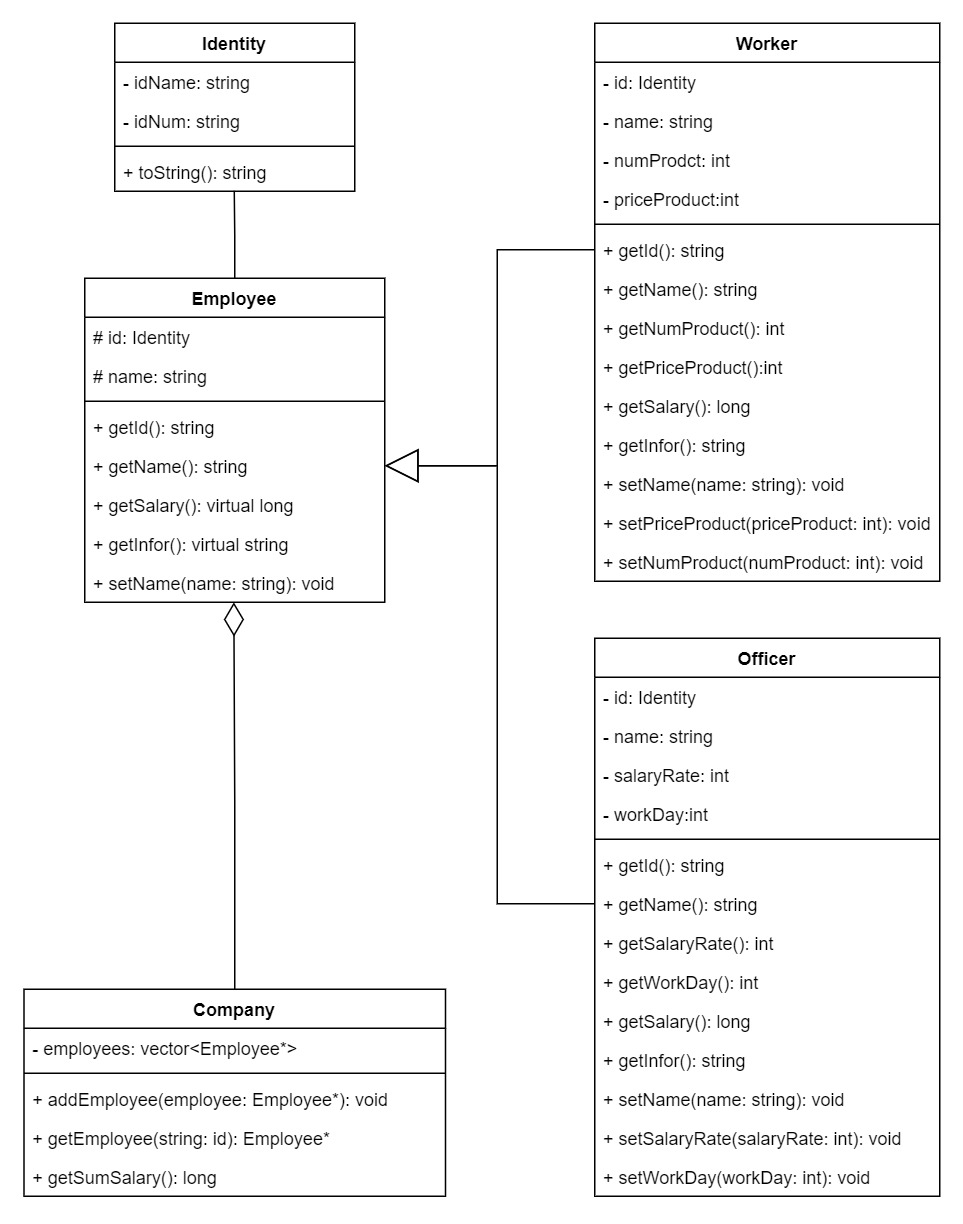
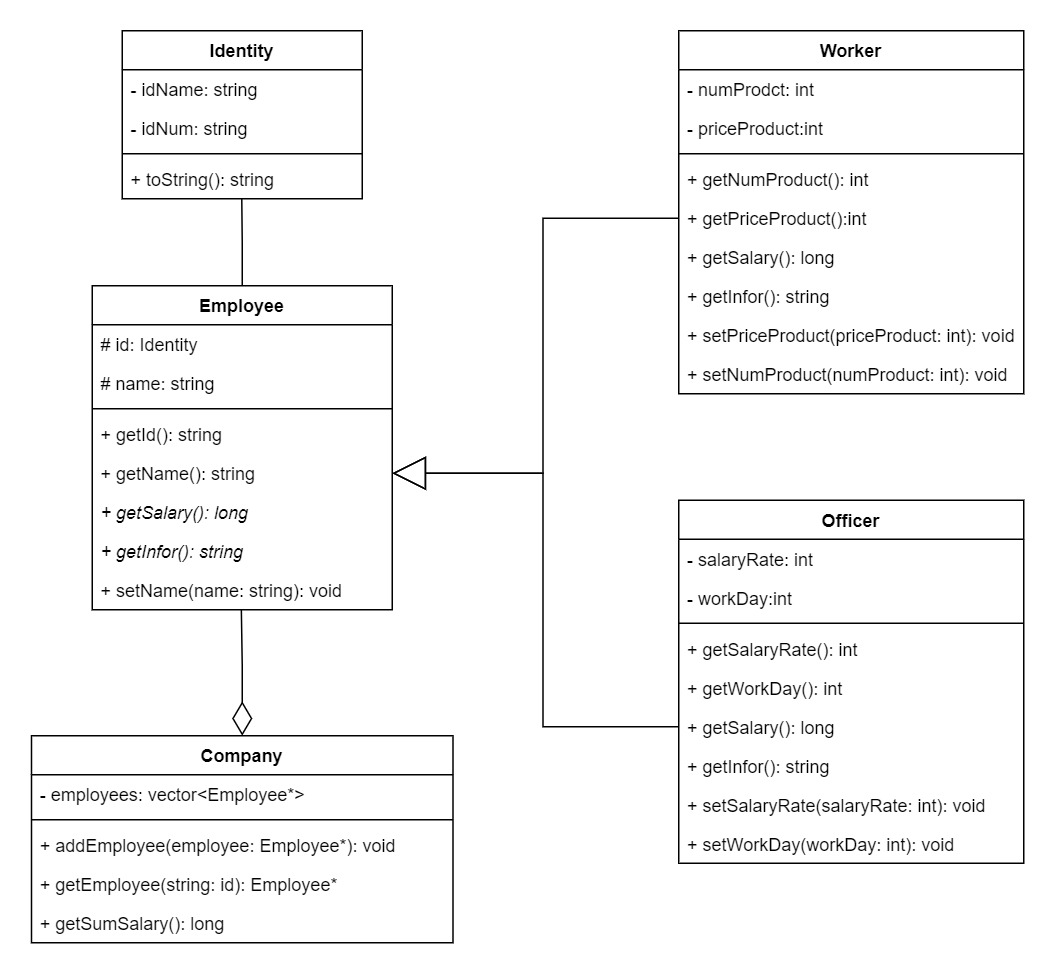
Add files via upload

diff --git a/practice/Bai1_Tuan3/main.cpp b/practice/Bai1_Tuan3/main.cpp
@@ -53,17 +53,17 @@ void editWorkerInfor(Employee* worker) {
 	case 1:
 		cout << "Enter new Name: "; cin.ignore(); getline(cin, name);
 		worker->setName(name);
-		cout << worker->getId() << " | Name has been changed to " << name << endl;
+		cout << worker->getId() << " name has been changed to " << name << endl;
 		break;
 	case 2:
 		cout << "Enter new Number of products: "; cin >> numProduct;
 		((Worker*)worker)->setNumProduct(numProduct);
-		cout << worker->getId() << " | Number of products has been changed to " << numProduct << endl;
+		cout << worker->getId() << " number of products has been changed to " << numProduct << endl;
 		break;
 	case 3:
 		cout << "Enter new Price per product: "; cin >> priceProduct;
 		((Worker*)worker)->setPriceProduct(priceProduct);
-		cout << worker->getId() << " | Price per product has been changed to " << priceProduct << endl;
+		cout << worker->getId() << " price per product has been changed to " << priceProduct << endl;
 		break;
 	default:
 		cout << "Invalid input. ";
@@ -84,17 +84,17 @@ void editOfficerInfor(Employee* officer) {
 	case 1:
 		cout << "Enter new name: "; cin.ignore(); getline(cin, name);
 		officer->setName(name);
-		cout << officer->getId() << " | Name has been changed to " << name << endl;
+		cout << officer->getId() << " name has been changed to " << name << endl;
 		break;
 	case 2:
 		cout << "Enter new Salary rate: "; cin >> salaryRate;
 		((Officer*)officer)->setSalaryRate(salaryRate);
-		cout << officer->getId() << " | Salary rate has been changed to " << salaryRate << endl;
+		cout << officer->getId() << " salary rate has been changed to " << salaryRate << endl;
 		break;
 	case 3:
 		cout << "Enter new Working day: "; cin >> workDay;
 		((Officer*)officer)->setWorkDay(workDay);
-		cout << officer->getId() << " | Working day has been changed to " << workDay << endl;
+		cout << officer->getId() << " working day has been changed to " << workDay << endl;
 		break;
 	default:
 		cout << "Invalid input. ";

diff --git a/practice/Bai1_Tuan3/Worker.cpp b/practice/Bai1_Tuan3/Worker.cpp
@@ -31,9 +31,7 @@ long Worker::getSalary() {
 }
 
 string Worker::getInfor() {
-	string information = "";
-	information += "ID: " + this->id.toString() + '\n';
-	information += "Name: " + this->name + '\n';
+	string information = Employee::getInfor();
 	information += "Number of products: " + to_string(this->numProduct) + '\n';
 	information += "Price per product: " + to_string(this->priceProduct) + '\n';
 	information += "Salary: " + to_string(getSalary()) + '\n';

diff --git a/practice/Bai1_Tuan3/Officer.cpp b/practice/Bai1_Tuan3/Officer.cpp
@@ -31,9 +31,7 @@ long Officer::getSalary() {
 }
 
 string Officer::getInfor() {
-	string information = "";
-	information += "ID: " + this->id.toString() + '\n';
-	information += "Name: " + this->name + '\n';
+	string information = Employee::getInfor();
 	information += "Salary Rate: " + to_string(this->salaryRate) + '\n';
 	information += "Working Day: " + to_string(this->workDay) + '\n';
 	information += "Salary: " + to_string(getSalary()) + '\n';

diff --git a/practice/Bai1_Tuan3/Employee.cpp b/practice/Bai1_Tuan3/Employee.cpp
@@ -2,6 +2,8 @@
 
 Employee::Employee() {}
 
+Employee::~Employee() {}
+
 Employee::Employee(string name) {
 	this->name = name;
 }
@@ -16,4 +18,11 @@ string Employee::getName() {
 
 void Employee::setName(string name) {
 	this->name = name;
+}
+
+string Employee::getInfor() {
+	string information = "";
+	information += "ID: " + this->id.toString() + '\n';
+	information += "Name: " + this->name + '\n';
+	return information;
 }

diff --git a/practice/Bai1_Tuan3/Employee.h b/practice/Bai1_Tuan3/Employee.h
@@ -8,11 +8,12 @@ protected:
 	string name;
 public:
 	Employee();
+	virtual ~Employee();
 	Employee(string name);
 	void setName(string name);
 	string getId();
 	string getName();
 	virtual long getSalary() = 0;
-	virtual string getInfor() = 0;
+	virtual string getInfor();
 };
 

diff --git a/practice/Bai1_Tuan3/Company.cpp b/practice/Bai1_Tuan3/Company.cpp
@@ -6,6 +6,7 @@ Company::~Company() {
 	for (Employee* employee : this->employees) {
 		delete employee;
 	}
+	employees.clear();
 }
 
 void Company::addEmployee(Employee* employee) {
